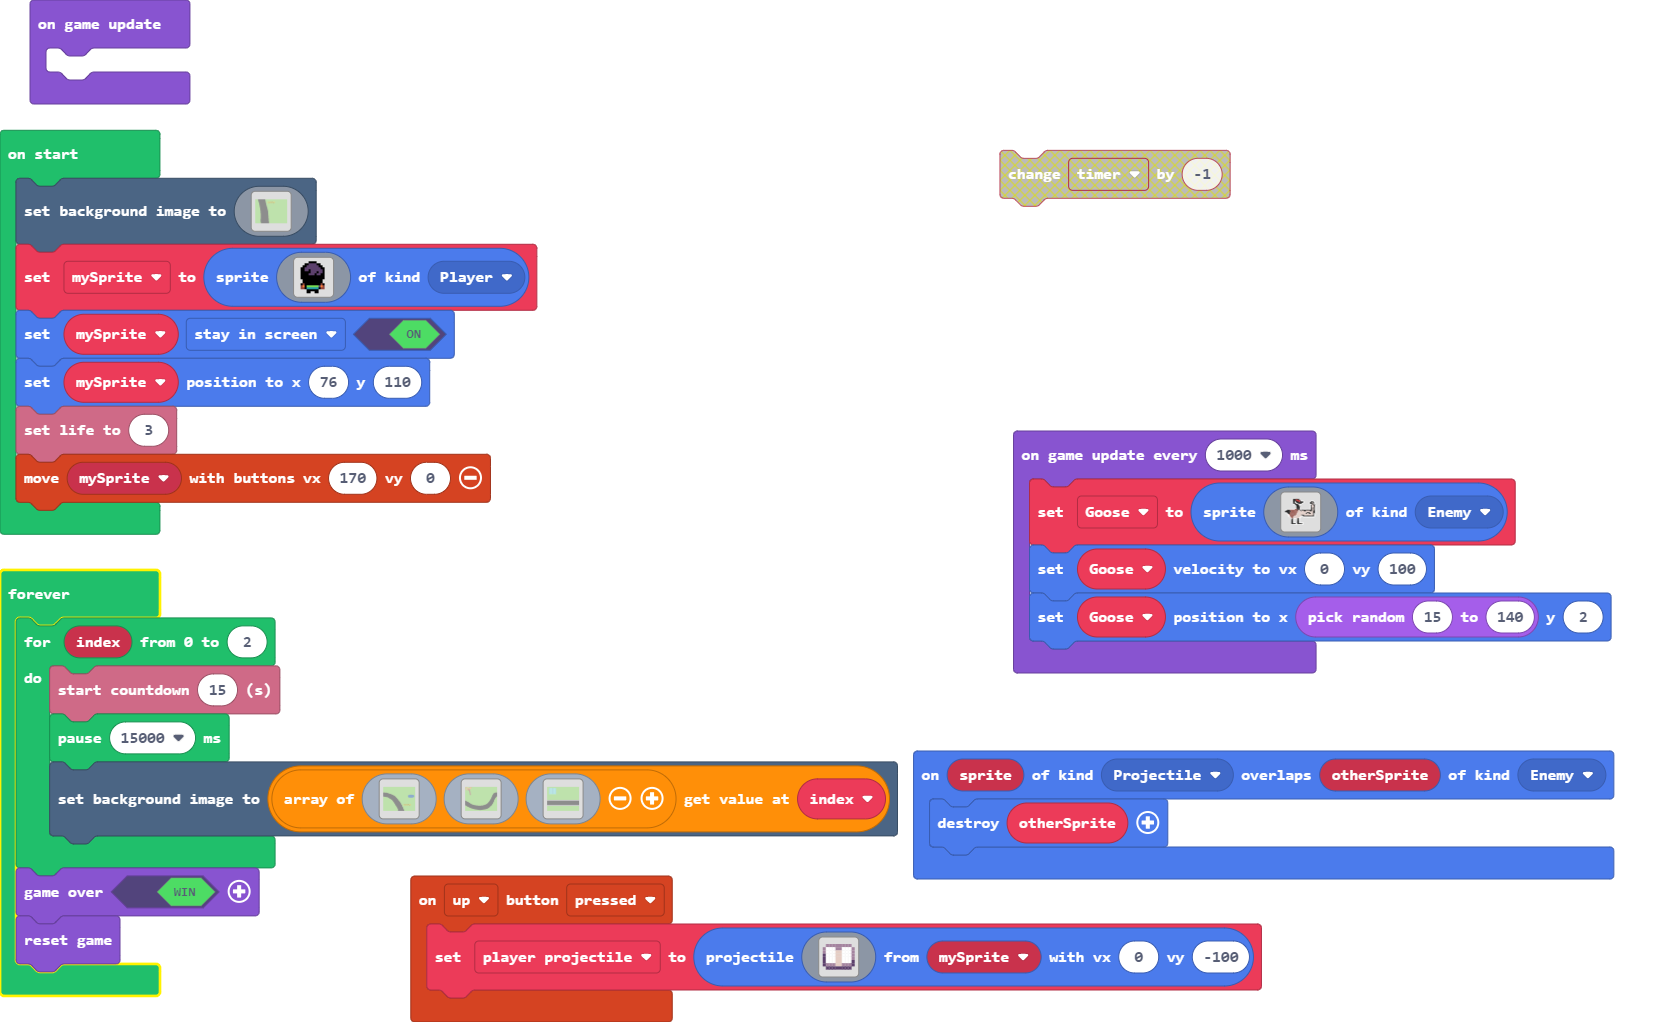
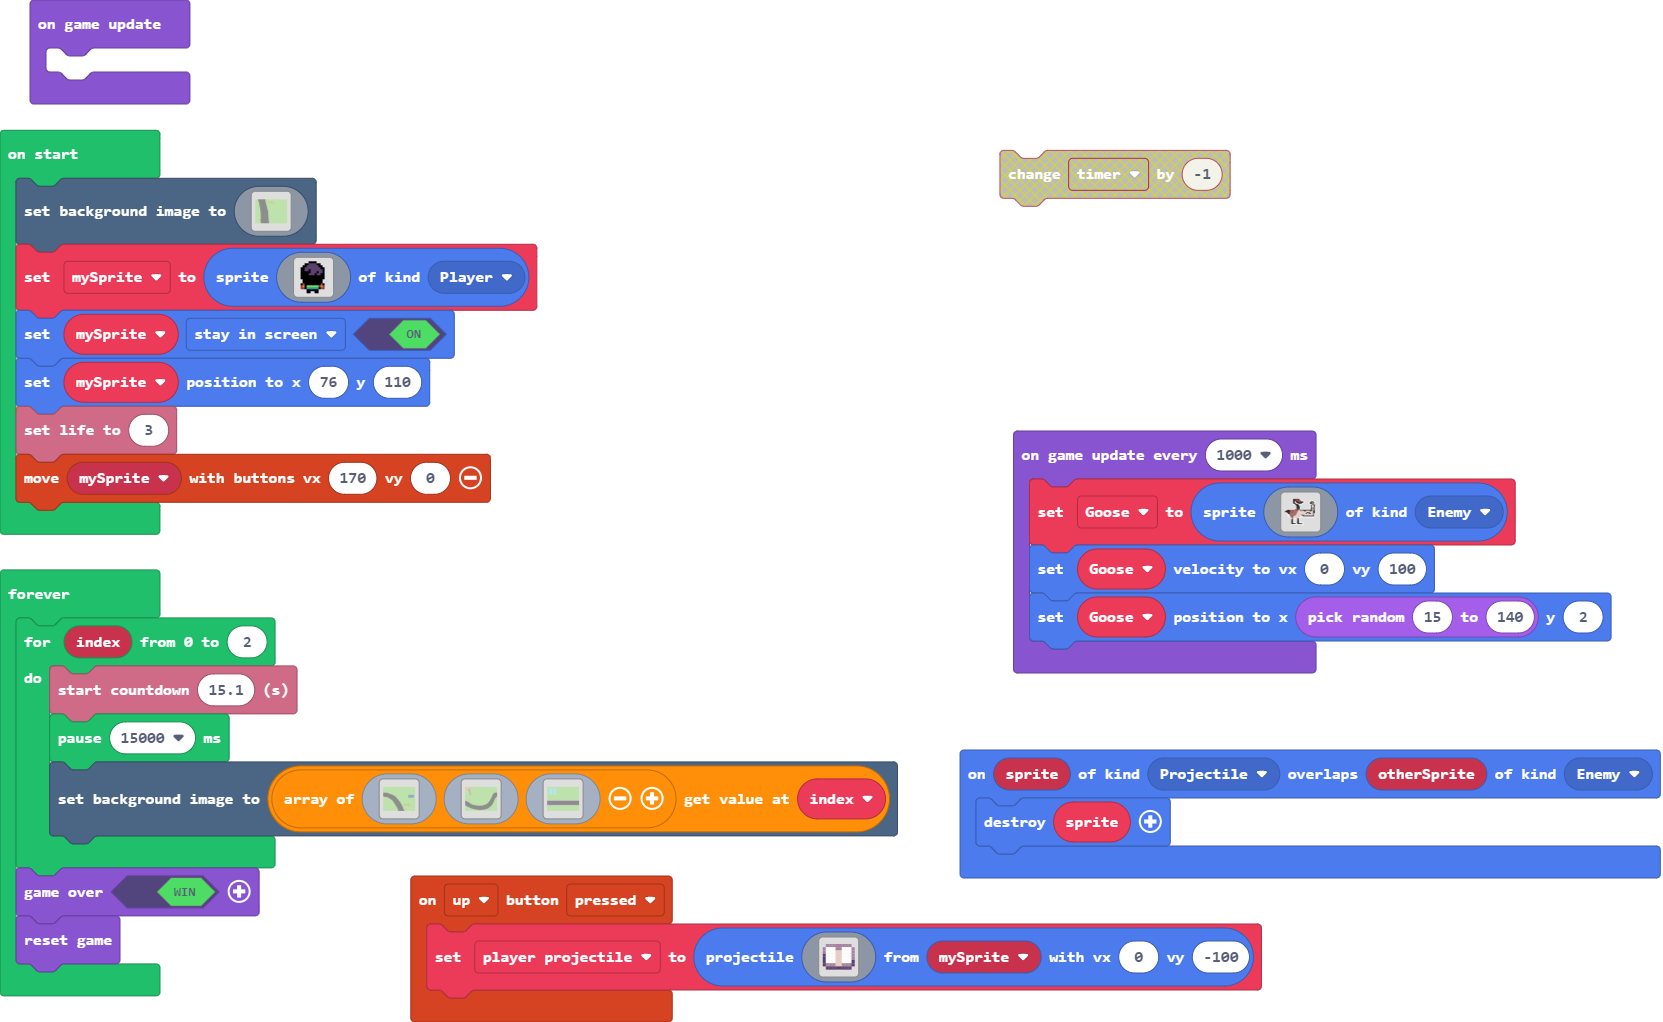
Update main.blocks, main.ts

diff --git a/main.ts b/main.ts
@@ -11,7 +11,7 @@ controller.up.onEvent(ControllerButtonEvent.Pressed, function () {
         `, mySprite, 0, -100)
 })
 sprites.onOverlap(SpriteKind.Projectile, SpriteKind.Enemy, function (sprite, otherSprite) {
-    otherSprite.destroy()
+    sprite.destroy()
 })
 let Goose: Sprite = null
 let player_projectile: Sprite = null
@@ -203,7 +203,7 @@ game.onUpdateInterval(1000, function () {
 })
 forever(function () {
     for (let index = 0; index <= 2; index++) {
-        info.startCountdown(15)
+        info.startCountdown(15.1)
         pause(15000)
         scene.setBackgroundImage([img`
             7777777777777777777777777777777777777777777777777777777777777777777777777777777777777777777777777777777777777777777777777777777777777777777777777777777777777777
